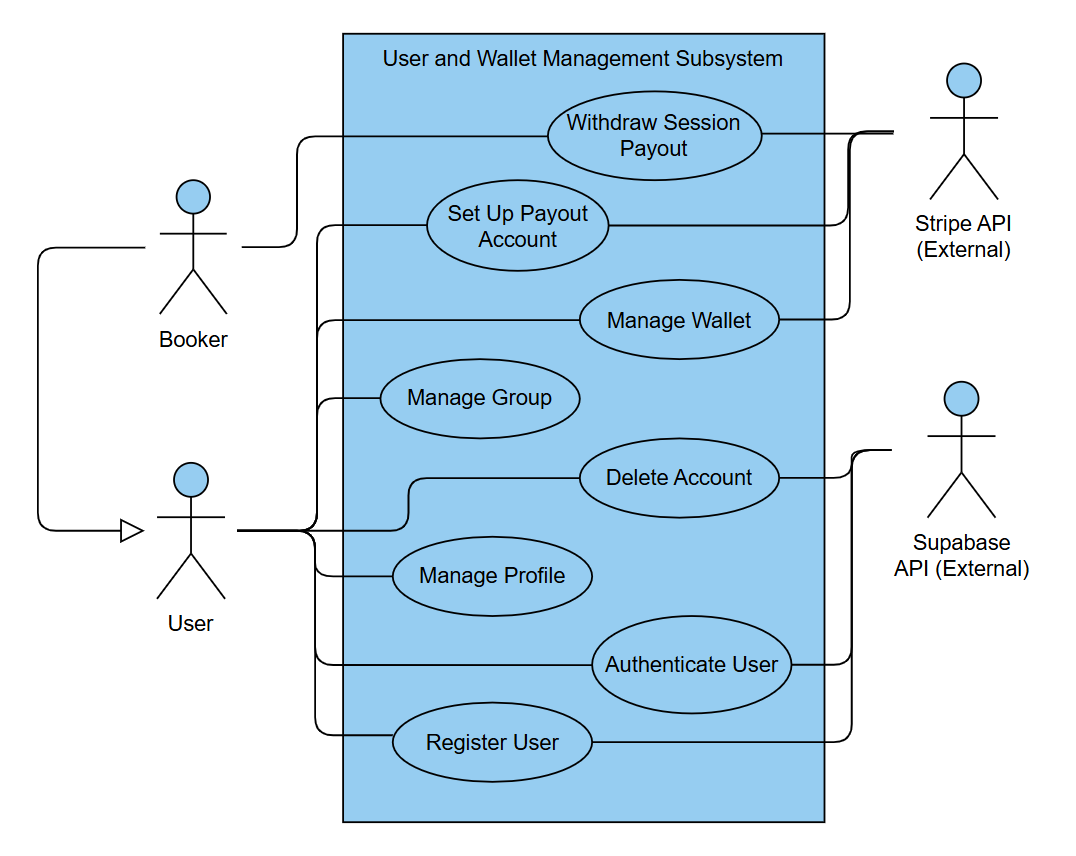
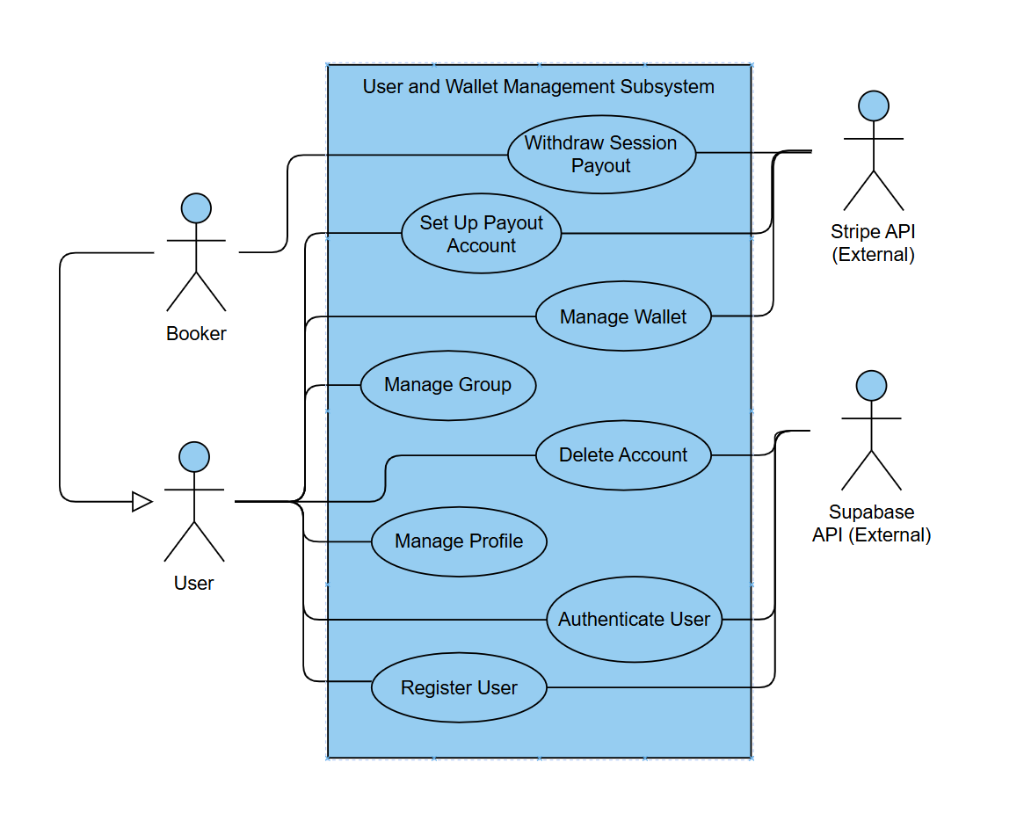
docs(diagrams): remove redundant diagram exports and keep only white-box CFGs

Changed region(s): [[0.0312, 0.0306, 0.9688, 0.9792], [0.0625, 0.5202, 0.2188, 0.6426], [0.1562, 0.6426, 0.2188, 0.7344]]

diff --git a/docs/diagrams/README.md b/docs/diagrams/README.md
@@ -42,18 +42,14 @@ These are not diagrams and stay where they are:
 
 | Diagram | Type | Area owner | Source | Export | Used in |
 | --- | --- | --- | --- | --- | --- |
-| UC1 user and wallet management | Use case | Rishi | Not in repo (SRS) | [uc1-user-and-wallet-management.png](./use-case/uc1-user-and-wallet-management.png) | SRS |
 | UC2 session management | Use case | Yajie | Not in repo (SRS) | [uc2-session-management.png](./use-case/uc2-session-management.png) | SRS, [Lab 3](../../lab3/README.md) |
 | Dialog map | Dialog map | Yajie | [dialog-map/*.drawio](./dialog-map/README.md) | [PNG](./dialog-map/dialog-map.png), [SVG](./dialog-map/dialog-map.svg), [PDF](./dialog-map/dialog-map.pdf) | [Lab 3](../../lab3/README.md) |
 | UC1-06 Groups experience (current UI) | Dialog map | Joseph | [DOT](./dialog-map/uc1-06-groups-experience.dot) | [SVG](./dialog-map/uc1-06-groups-experience.svg) | [Groups](../../app/groups/README.md), supersedes the Lab 3 snapshot's group creation transition |
-| Runtime architecture and external services | Architecture | Rishi | Not in repo (SRS) | [runtime-architecture.png](./architecture/runtime-architecture.png) | SRS (Appendix F) |
-| ECB layered overview | Class | - | Not in repo (SRS) | [ecb-layered-overview.png](./class/ecb-layered-overview.png) | SRS (Appendix B) |
 | Domain class diagram (overview) | Class | Rishi | [domain-class-diagram.puml](../domain-class-diagram.puml) | [SVG](../assets/domain-class-diagram.svg), [PNG](../assets/domain-class-diagram.png) | [Domain class diagram](../domain-class-diagram.md) |
-| Domain: accounts and groups | Class | Rishi | [domain-accounts.puml](./domain-accounts.puml) | [PNG](./class/domain-model-a-accounts.png), [SVG](../assets/domain-accounts.svg) | [Domain class diagram](../domain-class-diagram.md), SRS |
-| Domain: sessions aggregate | Class | Rishi | [domain-sessions.puml](./domain-sessions.puml) | [PNG](./class/domain-model-b-sessions.png), [SVG](../assets/domain-sessions.svg) | [Domain class diagram](../domain-class-diagram.md), SRS |
-| Domain: participation & reliability | Class | Rishi | [domain-sessions.puml](./domain-sessions.puml) | [PNG](./class/domain-model-c-participation.png), [SVG](../assets/domain-sessions.svg) | [Domain class diagram](../domain-class-diagram.md), SRS |
-| Domain: settlement | Class | Rishi | [domain-settlement.puml](./domain-settlement.puml) | [PNG](./class/domain-model-d-settlement.png), [SVG](../assets/domain-settlement.svg) | [Domain class diagram](../domain-class-diagram.md), SRS |
-| Domain: ledger | Class | Rishi | [domain-ledger.puml](./domain-ledger.puml) | [PNG](./class/domain-model-e-ledger.png), [SVG](../assets/domain-ledger.svg) | [Domain class diagram](../domain-class-diagram.md), SRS |
+| Domain: accounts and groups | Class | Rishi | [domain-accounts.puml](./domain-accounts.puml) | [SVG](../assets/domain-accounts.svg) | [Domain class diagram](../domain-class-diagram.md) |
+| Domain: sessions | Class | Rishi | [domain-sessions.puml](./domain-sessions.puml) | [SVG](../assets/domain-sessions.svg) | [Domain class diagram](../domain-class-diagram.md) |
+| Domain: settlement | Class | Rishi | [domain-settlement.puml](./domain-settlement.puml) | [SVG](../assets/domain-settlement.svg) | [Domain class diagram](../domain-class-diagram.md) |
+| Domain: ledger | Class | Rishi | [domain-ledger.puml](./domain-ledger.puml) | [SVG](../assets/domain-ledger.svg) | [Domain class diagram](../domain-class-diagram.md) |
 | White-box CFG: Participant.join (UC2-04) | Control flow | Harrison | Not in repo (SRS) | [cfg-participant-join.png](./cfg/cfg-participant-join.png) | SRS (Appendix D) |
 | White-box CFG: Participant.withdraw (UC2-05) | Control flow | Harrison | Not in repo (SRS) | [cfg-participant-withdraw.png](./cfg/cfg-participant-withdraw.png) | SRS (Appendix D) |
 | White-box CFG: parseTopUpInput (UC1-05) | Control flow | - | Not in repo (SRS) | [cfg-parse-top-up.png](./cfg/cfg-parse-top-up.png) | SRS (Appendix D) |
